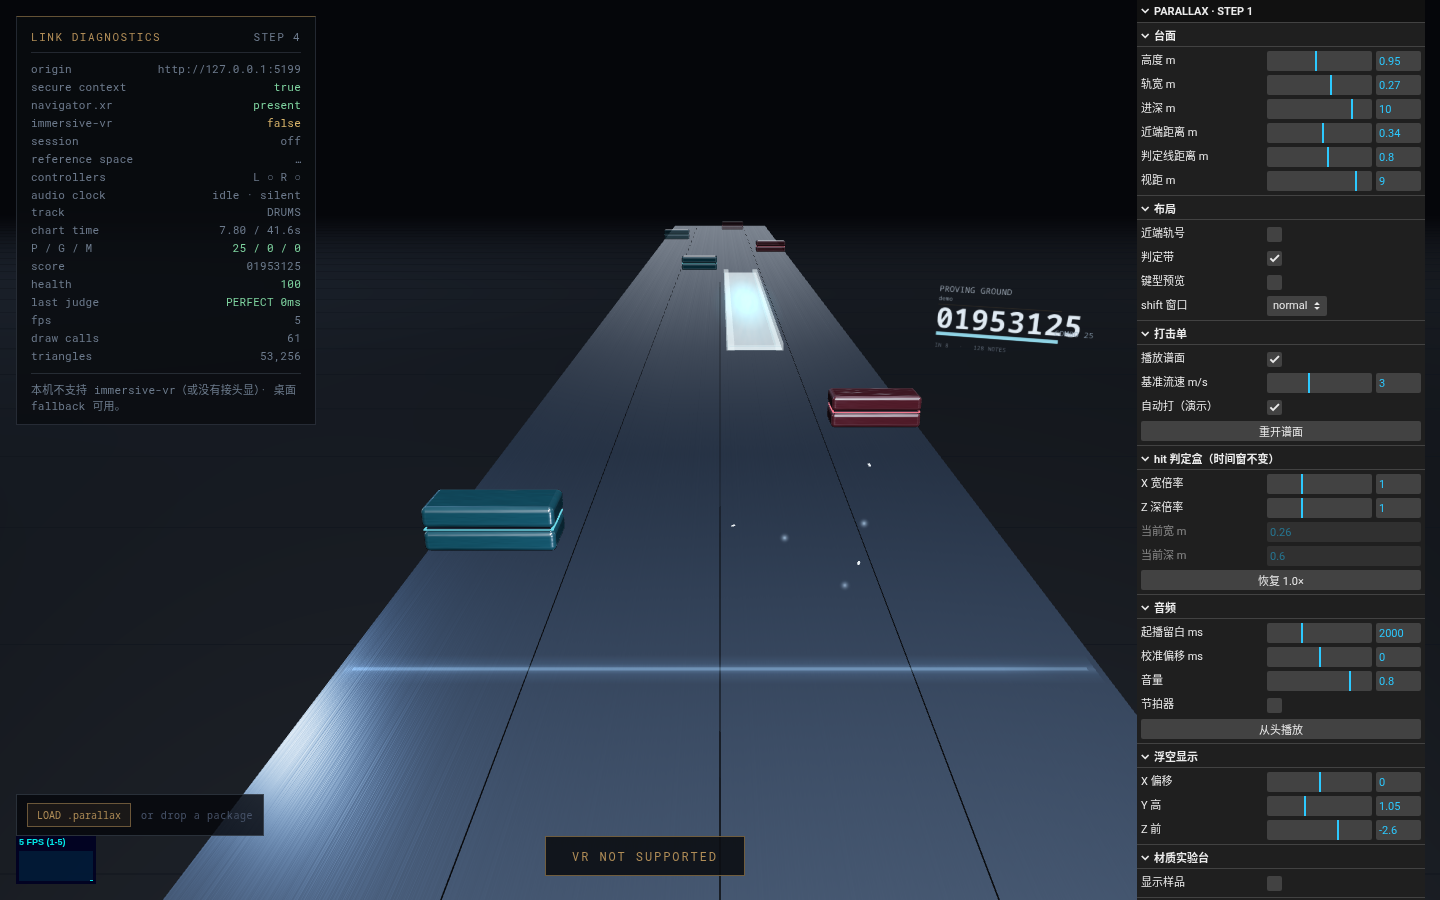
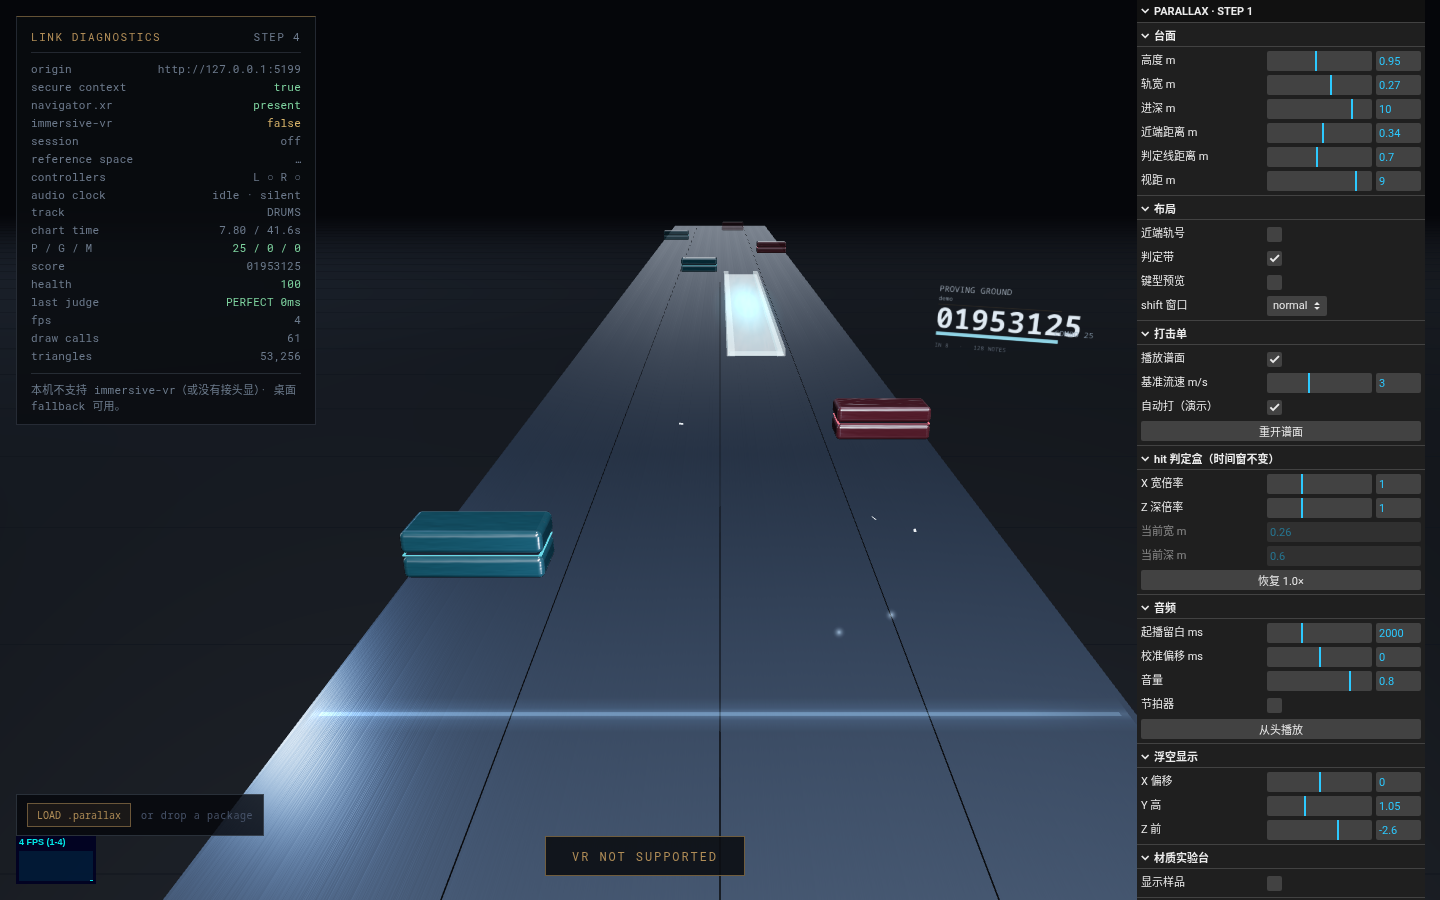
tune(layout): default judgment line to 0.70m

diff --git a/prototype/src/config.ts b/prototype/src/config.ts
@@ -42,7 +42,7 @@ export const DEFAULT_PARAMS: TableParams = {
   laneWidth: 0.27,
   tableDepth: 10,
   nearOffset: 0.34,
-  bandDistance: 0.8,
+  bandDistance: 0.7,
   plateThickness: 0.012,
   showLaneNumbers: false,
   showBand: true,

diff --git a/prototype/STATUS.md b/prototype/STATUS.md
@@ -40,6 +40,7 @@
 - **打击反馈（2026-10-21）**：hit / drag 加打击音（hit 更响、drag 更轻）；结算加 GOOD early / late；判定带加竖直、只亮网格线的时间驱动引导网。hit 前侧 z 容差收到 0.22m，观察 early 偏多是否来自提前挥入。
 - **hit 造型 / 碎裂（2026-10-21）**：先在 [`design/hit-lab`](../design/hit-lab/) 比较三个上下对称方向，最终采用压薄的 A / SANDWICH：`0.232 × 0.084 × 0.096m`，上下同形釉面 + 窄金属芯 + 内收手别色光缝。命中不再画冲击环，直接碎成陶瓷片；打击音在原 click 上叠一层短低频。
 - **判定调试 / 手部球（2026-10-21）**：dev GUI 增加 `hit 判定盒（时间窗不变）`，X / Z 倍率即时生效，并显示当前 0.26m × 0.60m；可用 `?hitboxX` / `?hitboxZ` 在头显里调，默认值不变。XR 控制器端点球 0.012→0.02m，桌面指针球 0.016→0.024m。判定线距离继续用已有的 `?band` / GUI 台面项。
+- **判定线默认距离（2026-10-22）**：头显实测 0.70m 最好；`DEFAULT_PARAMS.bandDistance` 0.80→0.70，bandZ −0.46→−0.36。`?band` 仍可覆盖。
 - **arc 连接反馈（2026-10-21）**：身体过线且没有手接住时整条 arc 立即降到 0.42 亮度；接上时在弧头 / 手附近出现更大的手别色接触光，失去连接再变暗。`auto` 保持正常亮度。跟随 / tick / 计分不变。
 - **手腕短棒（2026-10-22）**：两只控制器各加一根 0.18m 短棒；默认与 hit 时全亮，接住 hold / arc 时淡到 0.28。WebXR 浏览器现在也会显示调试 GUI，`?debug=0` 可关。hit perfect 改为 early -120ms / late +80ms，good 仍 ±160ms；引导网同步为不对称 full 窗口。
 - **暂缓**：无物量时立即结算，暂不按包内 `meta.duration` 等待；等 Infinity Heaven 谱面补充完成后再处理。
@@ -68,7 +69,7 @@
 | 参数 | 值 |
 | --- | --- |
 | 台面高度 / 轨宽 / 进深 | 0.95m / 0.27m / 10m |
-| 判定带 | z = −0.46m（近端内 0.80m，比旧版前移 25cm） |
+| 判定带 | z = −0.36m（近端内 0.70m；2026-10-22 头显实测从 0.80 下调） |
 | 高度基准 | 胸 0.33 / 面 0.61 / 头顶 0.81 m（相对台面） |
 | 高度上限 | 0.81m；超限 note 不生成 |
 | 视距 / 渐显 | 9m / 4m |

diff --git a/README.md b/README.md
@@ -124,7 +124,7 @@ theme/ background/   提前预留的资源（游戏暂未消费）
 - 腰高 **0.95m** 的平面，6 条轨（单轨宽 **0.27m**，进深 10m）；只有窗口内的 4 条会渲染，
   隐藏轨在几何上**真的不存在**（不是被暗板盖住）。
 - 0 / 5 进入窗口时比常住的 4 轨暗一档 —— 「没点亮」的状态本身可读。
-- 判定带固定贴在台面上（近端内 **0.80m**，比旧版前移 25cm），note 从远处滑过它。
+- 判定带固定贴在台面上（近端内 **0.70m**，比旧版 0.55m 前移 15cm），note 从远处滑过它。
 
 ### 四种键型与判定
 
@@ -264,7 +264,7 @@ cd prototype && npm run dev
 | `?range=6` | 视距（米，从判定带算） |
 | `?panel=home\|songs\|packs\|paused\|settings\|result` | 直接摊开指定面板 |
 | `?chrome=0` | 隐藏诊断 / lil-gui / Stats / 包加载器，给面板截图留干净背景 |
-| `?lane=0.27` `?band=0.80` | 调轨宽 / 判定带前移距离（米；生产页也可用） |
+| `?lane=0.27` `?band=0.70` | 调轨宽 / 判定带前移距离（米；生产页也可用） |
 | `?hitboxX=1.25` `?hitboxZ=1.2` | 调 hit 判定盒空间倍率（不改时间窗；生产页也可用） |
 | `?debug=0` `?debug=1` | 关闭 / 强制打开调试 GUI；检测到 immersive-vr 的浏览器默认打开 |
 | `?panelScale=1.05` `?panelDistance=0.65` `?panelY=1.45` | 调 VR 面板尺寸 / 距离 / 高度（生产也可用） |

diff --git a/CHANGELOG.md b/CHANGELOG.md
@@ -27,6 +27,7 @@
 - 调试：dev GUI 新增 hit 判定盒 X / Z 倍率（只改空间体积，时间窗不变），显示当前宽 / 深并可单独复位；生产页可用 `?hitboxX` / `?hitboxZ`。XR 控制器端点球与桌面指针球增大。
 - arc 连接反馈：身体过线但当前没有手接住时整条弧立即变暗到 0.42；接上时弧头 / 手附近出现更大的手别色接触光，失去连接再变暗。`auto` 演示保持正常亮度，跟随 / 物量 / 计分不变。
 - 手部加 0.18m 短棒，提示手腕敲击；默认 / hit 时全亮，接住 hold / arc 时淡到 0.28。
+- 头显实测后把默认判定线从近端内 0.80m 改为 0.70m；`bandZ` 从 −0.46m 变为 −0.36m。`?band` 仍可覆盖。
 - 调试 GUI 在 WebXR 浏览器里也显示；`?debug=0` 关闭，`?debug=1` 强制打开；`?chrome=0` 仍可隐藏全部桌面覆盖层。
 - hit perfect 窗口改为 early -120ms / late +80ms，good 仍 ±160ms；判定引导网的 full 窗口同步为不对称。
 - 判定带增加引导网：竖直贴在 bandZ（同 editor 3D 编辑网格），默认全透明，hit 在 180ms 内接近时只点亮网格线（无底板 / 光晕），perfect ±80ms 时最亮、中心偏暖黄；editor 3D 也自动显示。
